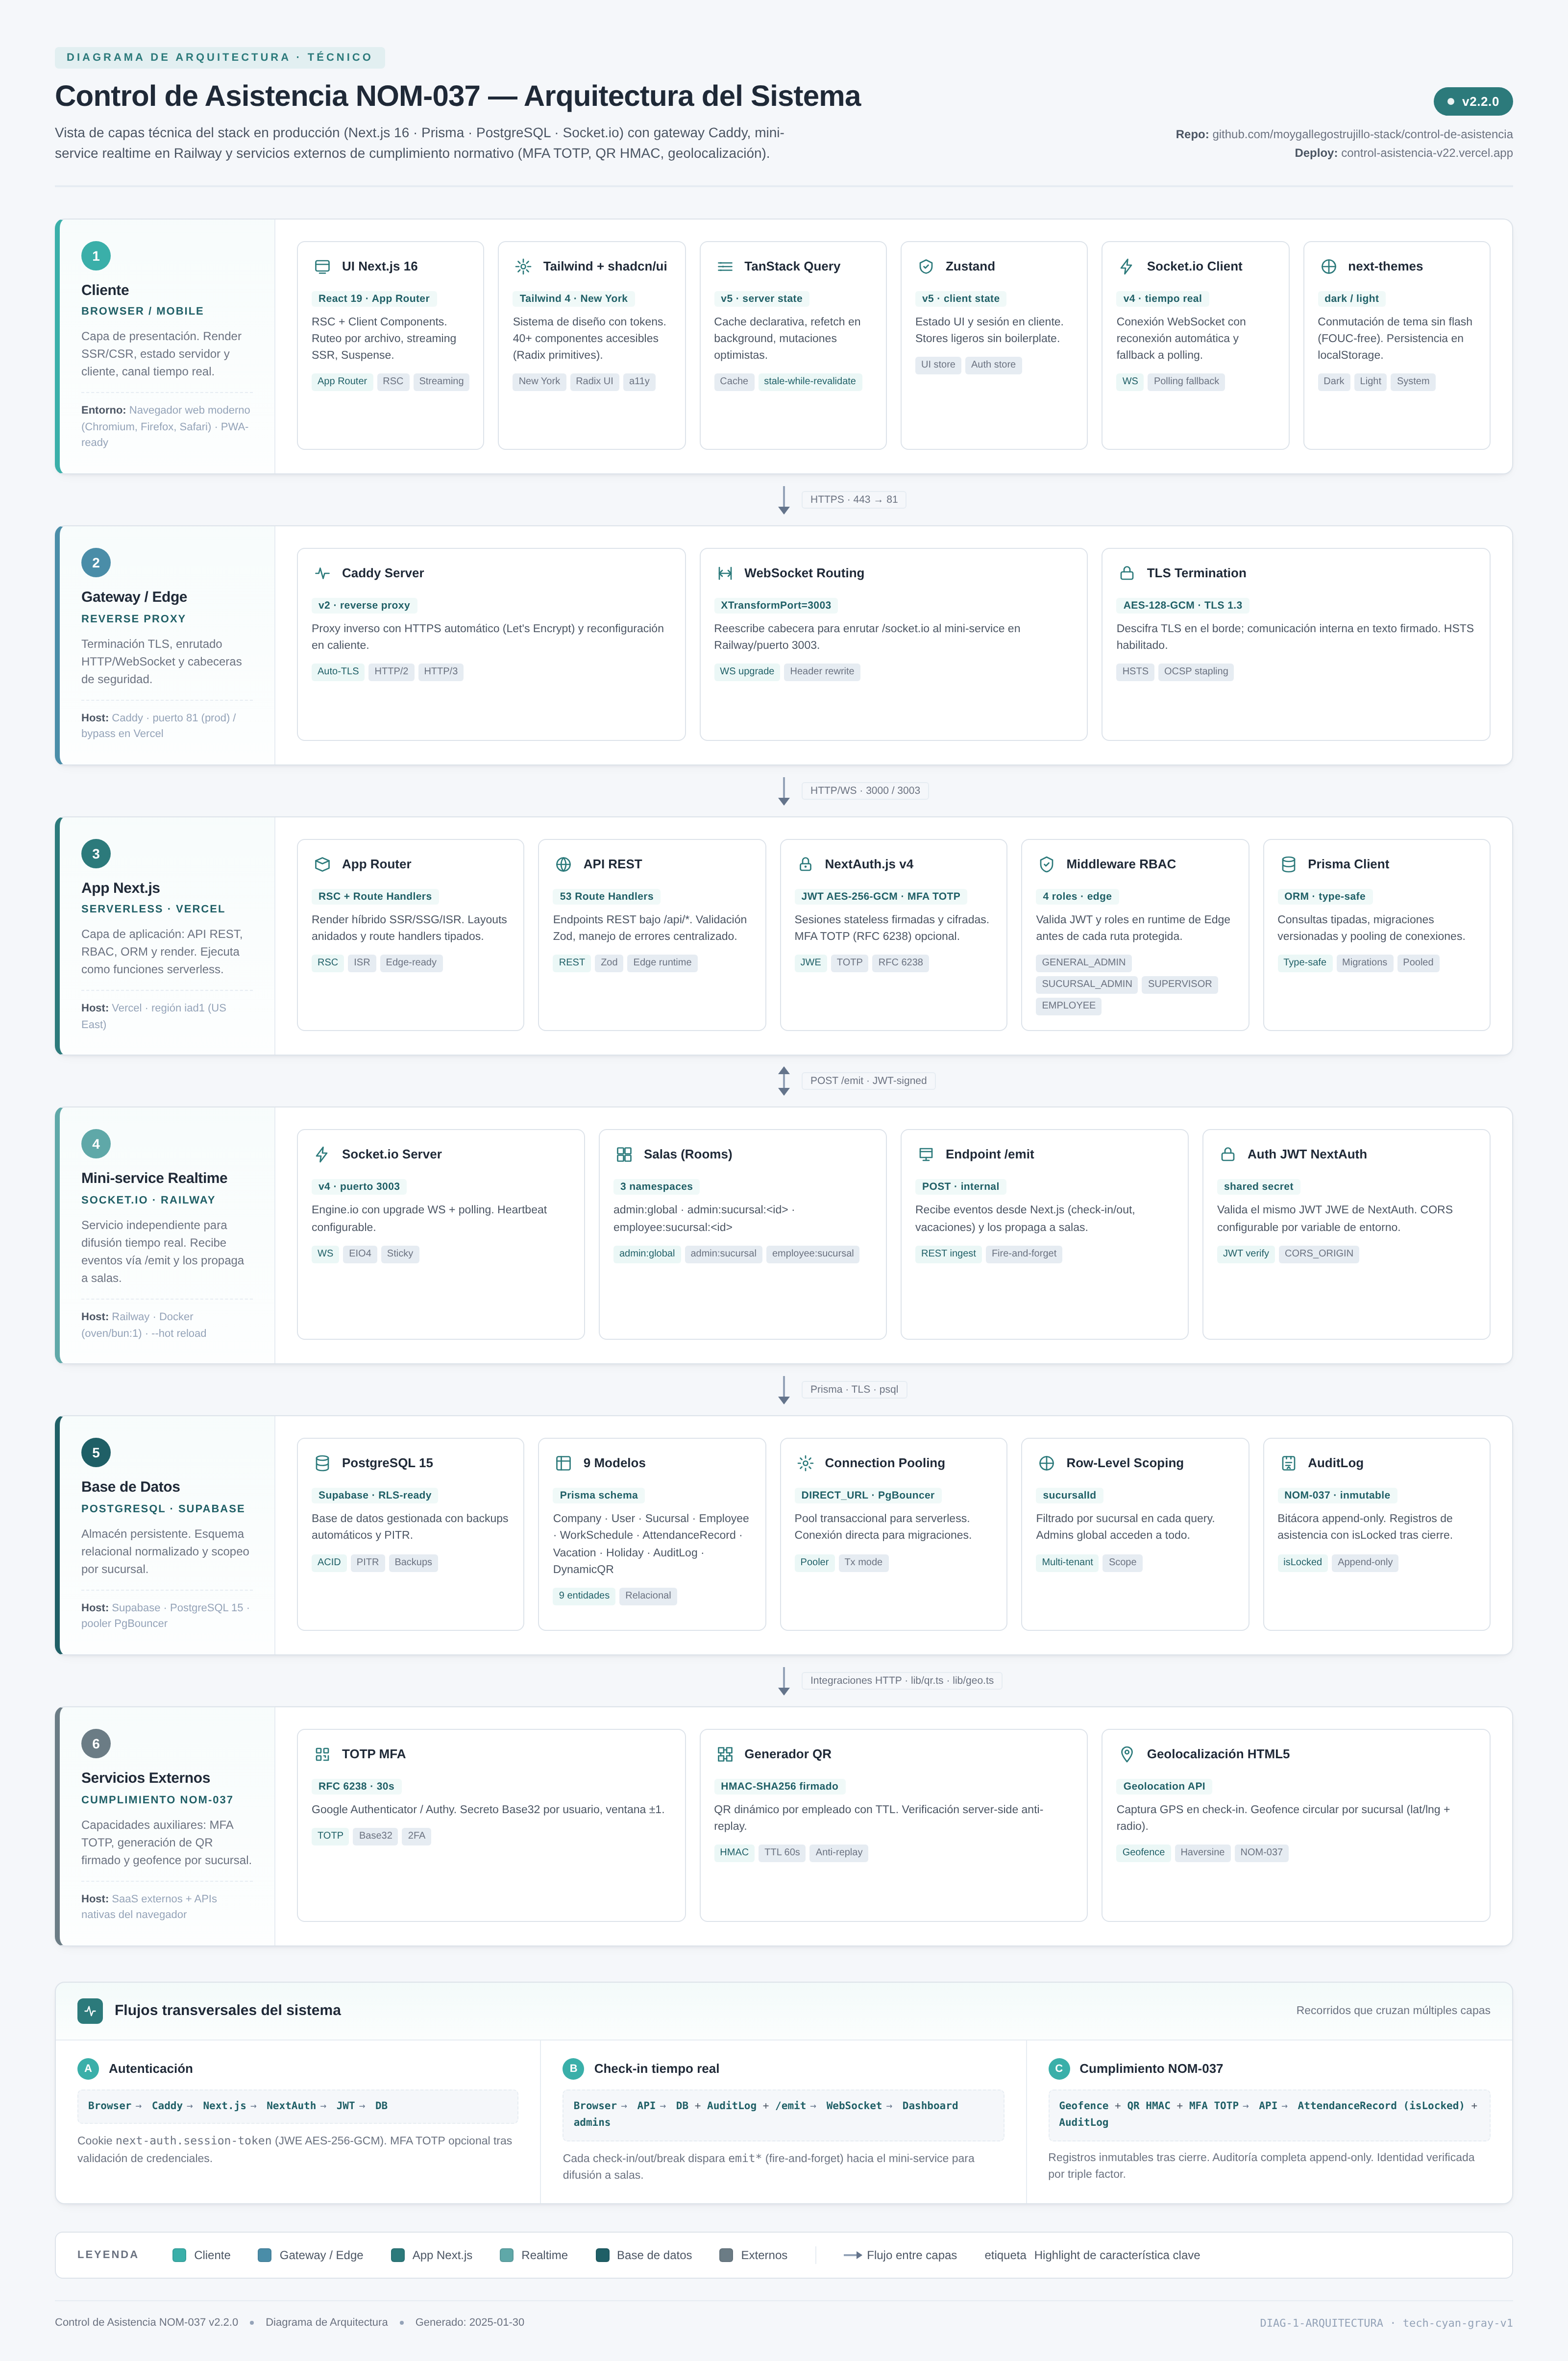
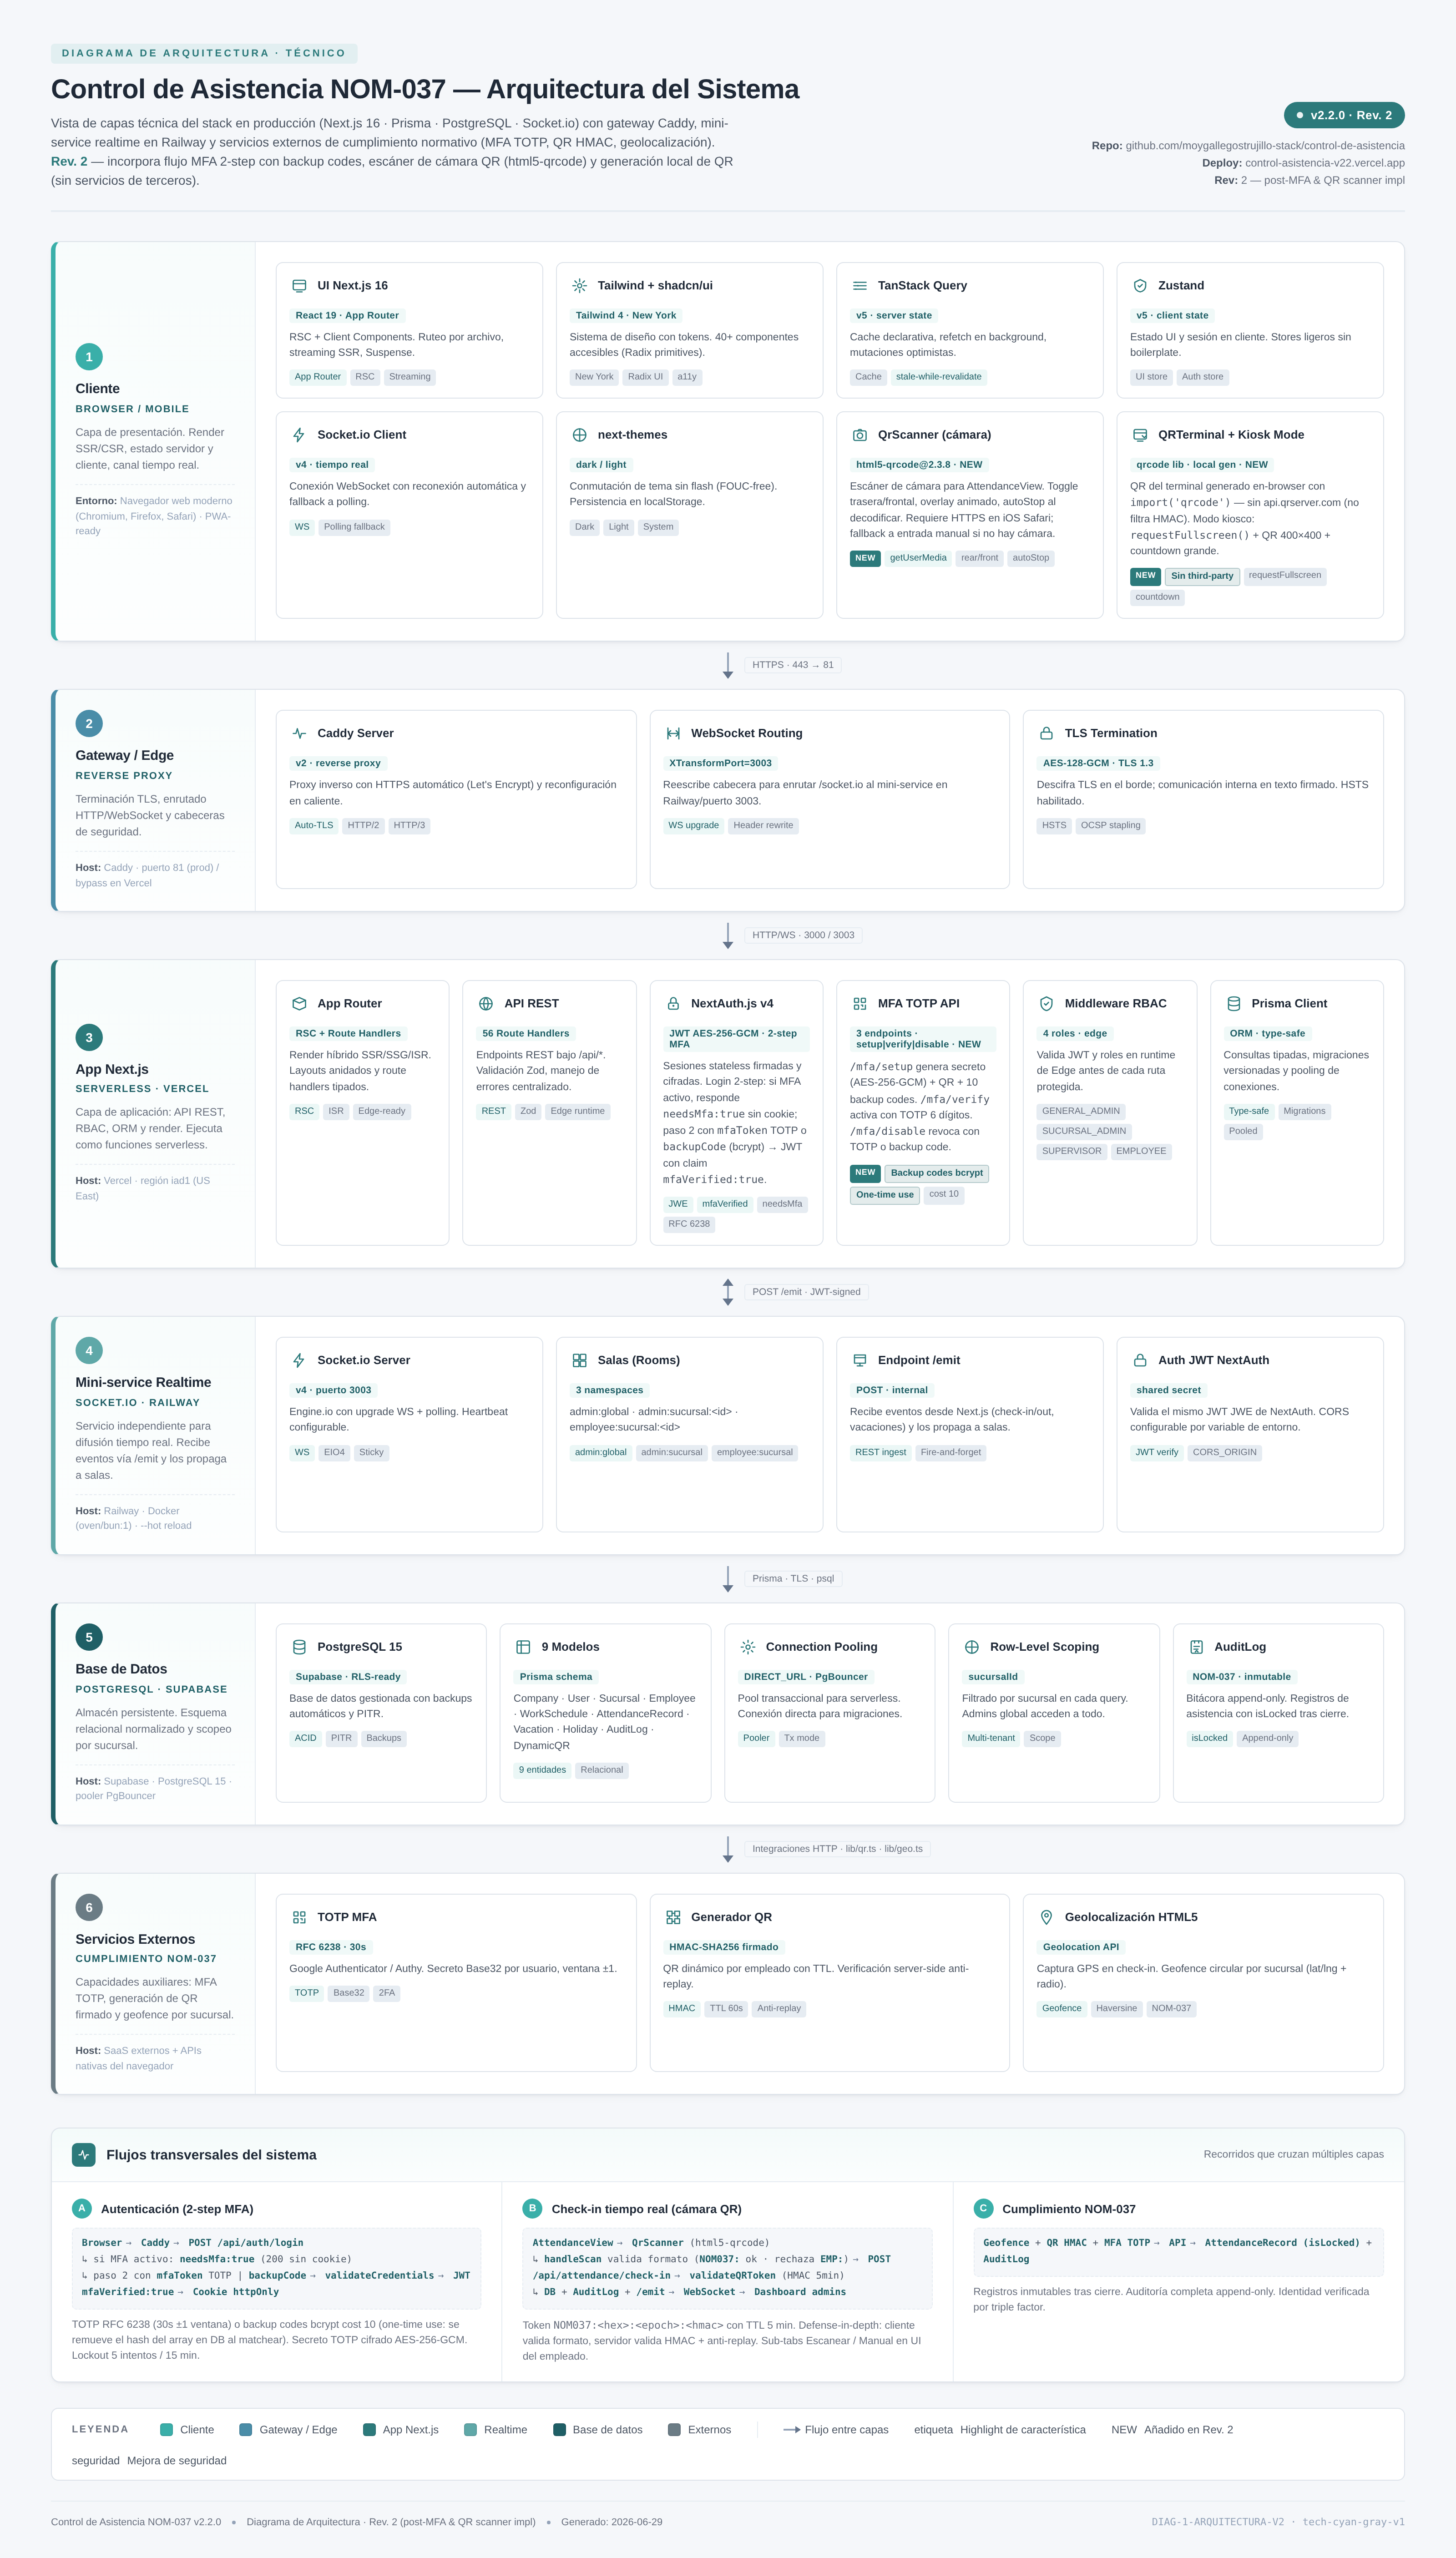
11059135-492c-4858-bbb7-1b805f1709a4

diff --git a/public/diagramas/render.py b/public/diagramas/render.py
@@ -1,20 +1,27 @@
 #!/usr/bin/env python3
-"""Render the NOM-037 process flow diagram HTML to high-quality PNG + PDF.
+"""Render the NOM-037 architecture diagram HTML to high-quality PNG + PDF.
+
+Default target: arquitectura-sistema.html (DIAG-1-ARQUITECTURA-V2).
+Optionally pass an HTML path as the first CLI argument to render a different
+diagram (e.g. flujo-procesos.html).
 
 Outputs:
-  /home/z/my-project/public/diagramas/flujo-procesos.png  (2x device scale)
-  /home/z/my-project/public/diagramas/flujo-procesos.pdf  (custom wide format)
+  <stem>.png  (2x device scale)
+  <stem>.pdf  (custom wide format, single page)
 """
 import asyncio
 import os
+import sys
 from playwright.async_api import async_playwright
 
-HTML_PATH = "/home/z/my-project/public/diagramas/flujo-procesos.html"
-PNG_PATH  = "/home/z/my-project/public/diagramas/flujo-procesos.png"
-PDF_PATH  = "/home/z/my-project/public/diagramas/flujo-procesos.pdf"
+DEFAULT_HTML = "/home/z/my-project/public/diagramas/arquitectura-sistema.html"
+HTML_PATH = sys.argv[1] if len(sys.argv) > 1 else DEFAULT_HTML
+STEM, _ = os.path.splitext(HTML_PATH)
+PNG_PATH = STEM + ".png"
+PDF_PATH = STEM + ".pdf"
 
-INITIAL_W = 1600
-INITIAL_H = 1200
+INITIAL_W = 1700
+INITIAL_H = 1400
 
 
 async def render():
@@ -73,6 +80,7 @@ async def render():
         pdf_size = os.path.getsize(PDF_PATH)
         print(f"PDF OK  {PDF_PATH}  ({pdf_size/1024:.1f} KB)")
 
+        print(f"Render target: {HTML_PATH}")
         await browser.close()
         return png_size, pdf_size
 